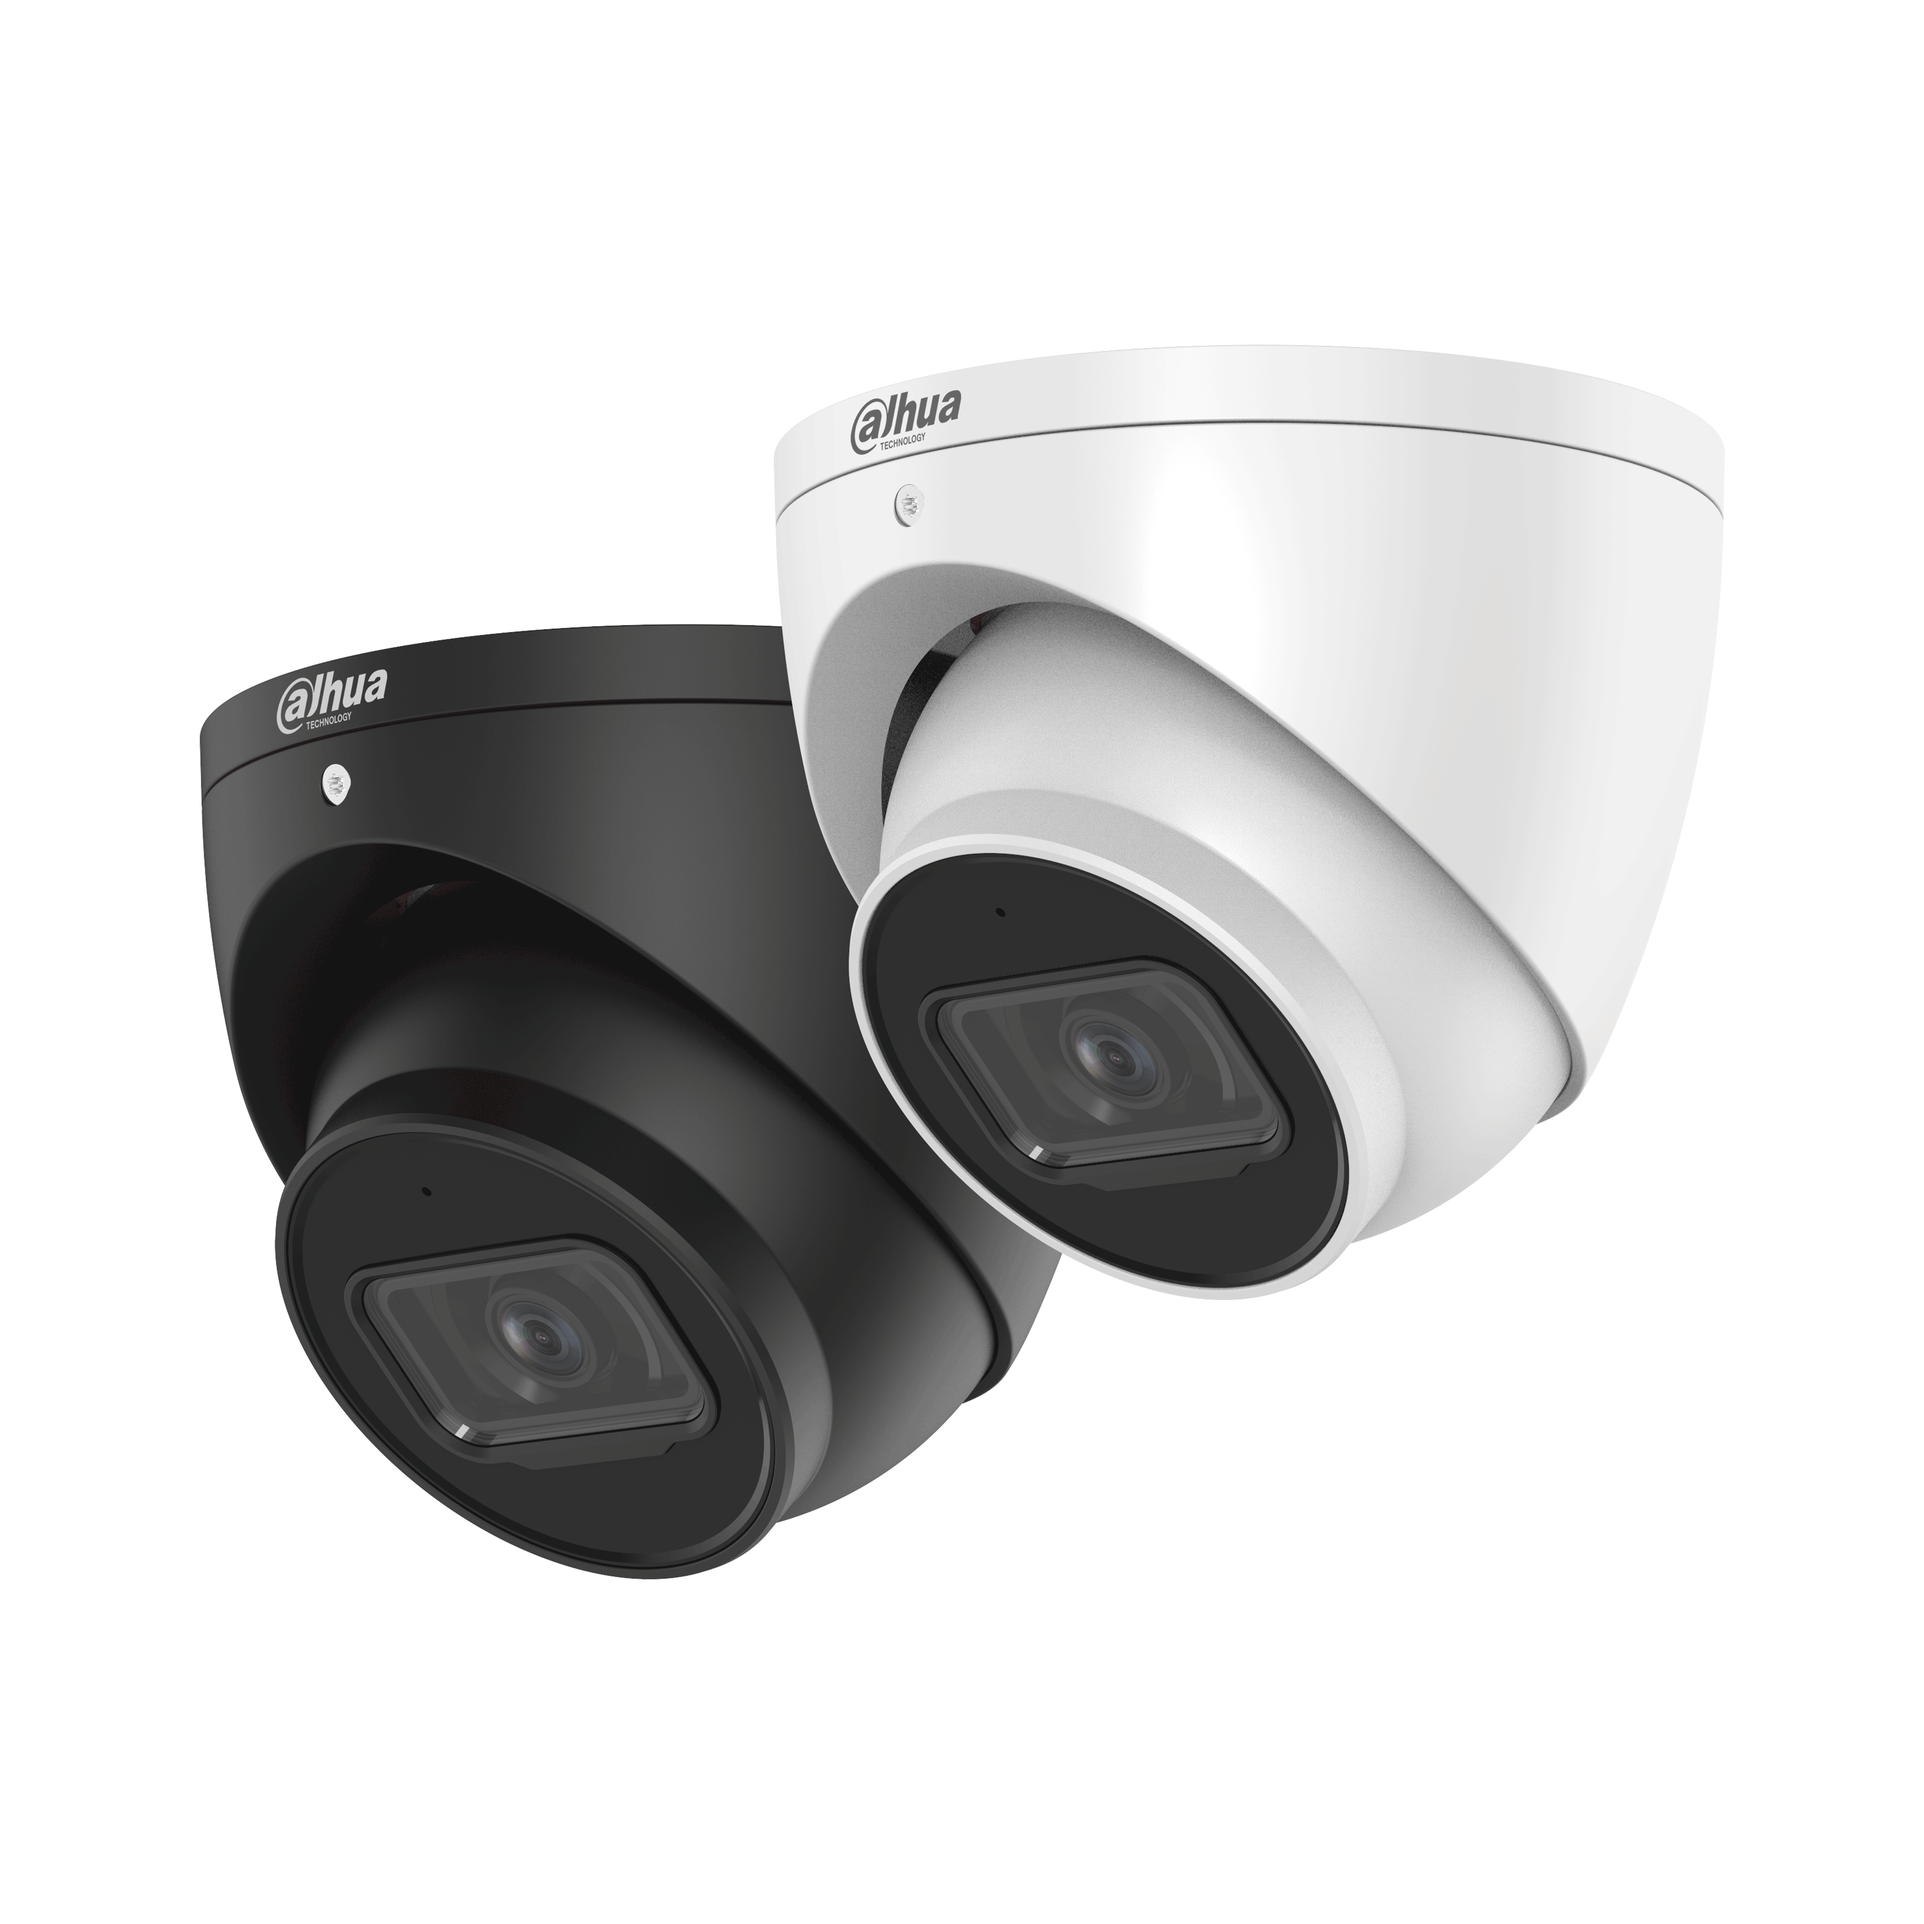
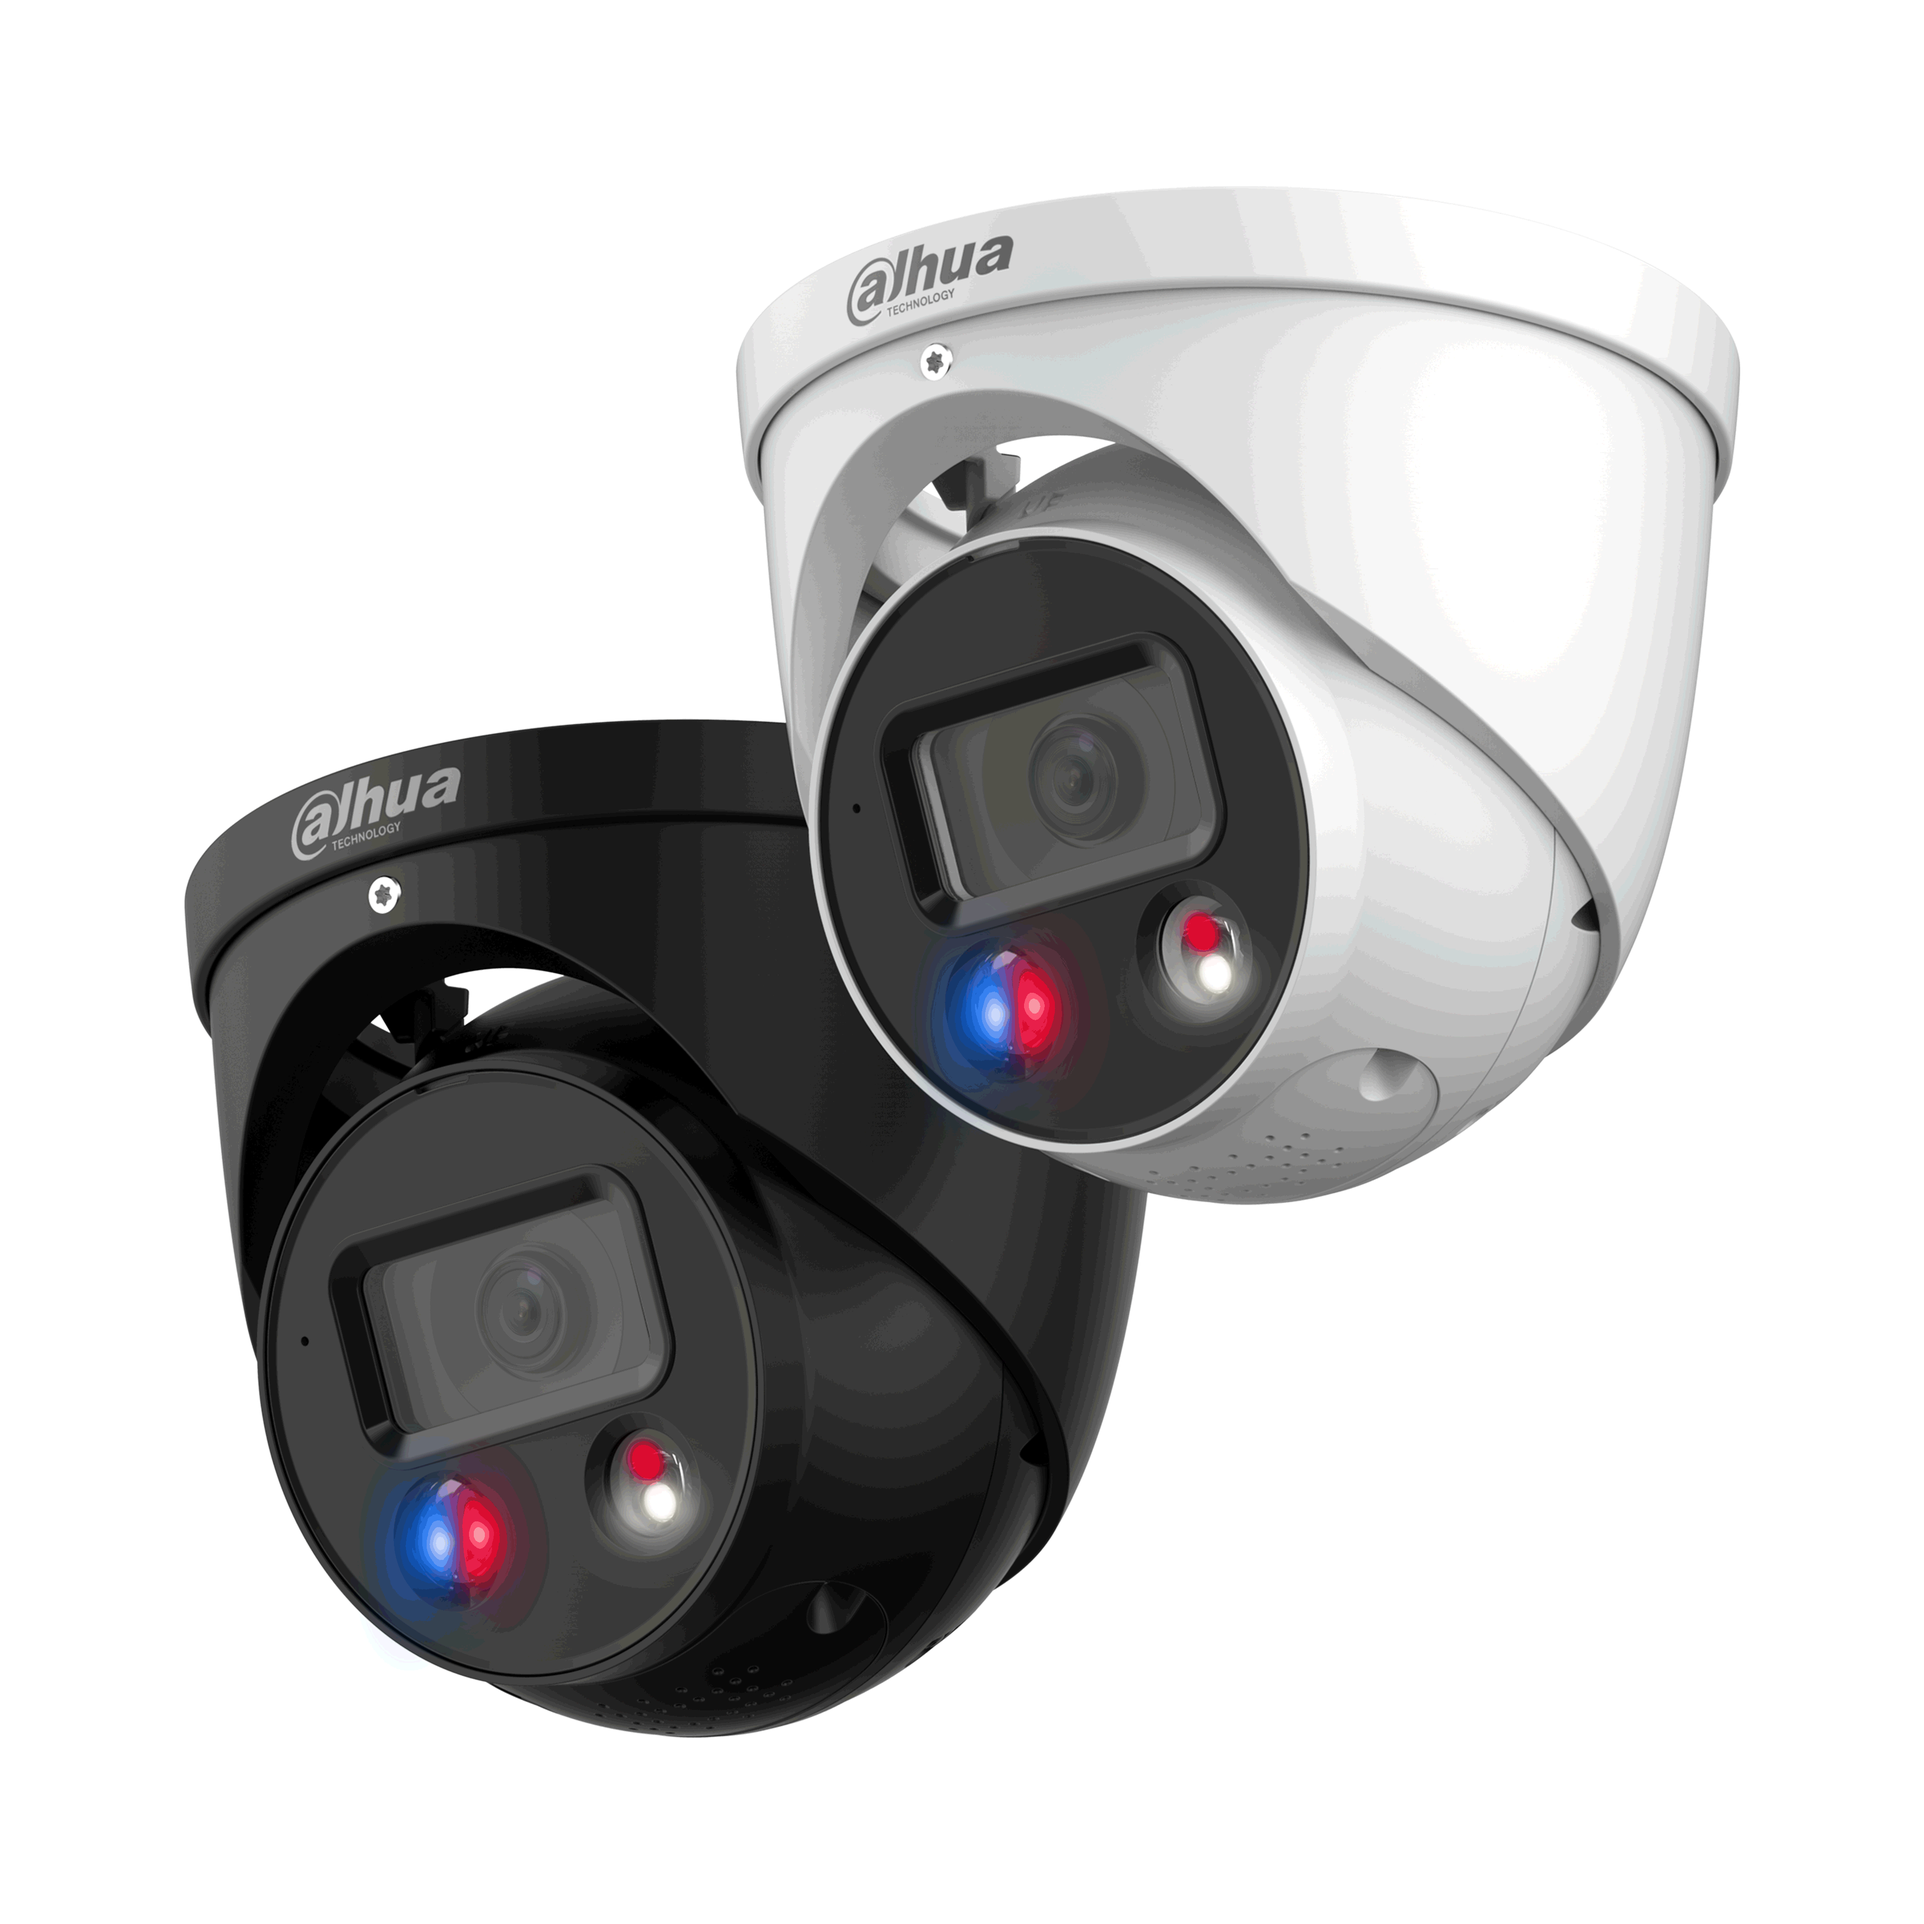
add bullet dome and glass camera pictures

Changed region(s): [[0.0938, 0.0938, 0.875, 0.9062], [0.8438, 0.1562, 0.9062, 0.375]]

diff --git a/index.html b/index.html
@@ -65,6 +65,15 @@
           </option>
         </select>
         <p for="TbAmount" id="storageLabel">placeholder</p>
+        <!-- Kameru forma -->
+        <label for="cameraShape">Kameros forma</label>
+
+        <select name="cameraShape" id="cameraShape" oninput="calculatePrice()">
+          <option value="Bullet">Cilindrine Bullet kamera</option>
+          <option value="Dome">Kupoline Dome kamera</option>
+          <option value="Glass">Kamera su stikliuku</option>
+          <!-- <option value="PTZ">Valdoma kamera</option> -->
+        </select>
 
         <input
           type="checkbox"

diff --git a/calculator.js b/calculator.js
@@ -318,6 +318,6 @@ function calculatePrice() {
     imageNameText += "Color";
   }
   //temp  dome
-  imageNameText += "Dome";
+  imageNameText += cameraShape.value;
   cameraImage.src = "resources/" + imageNameText + ".png";
 }
